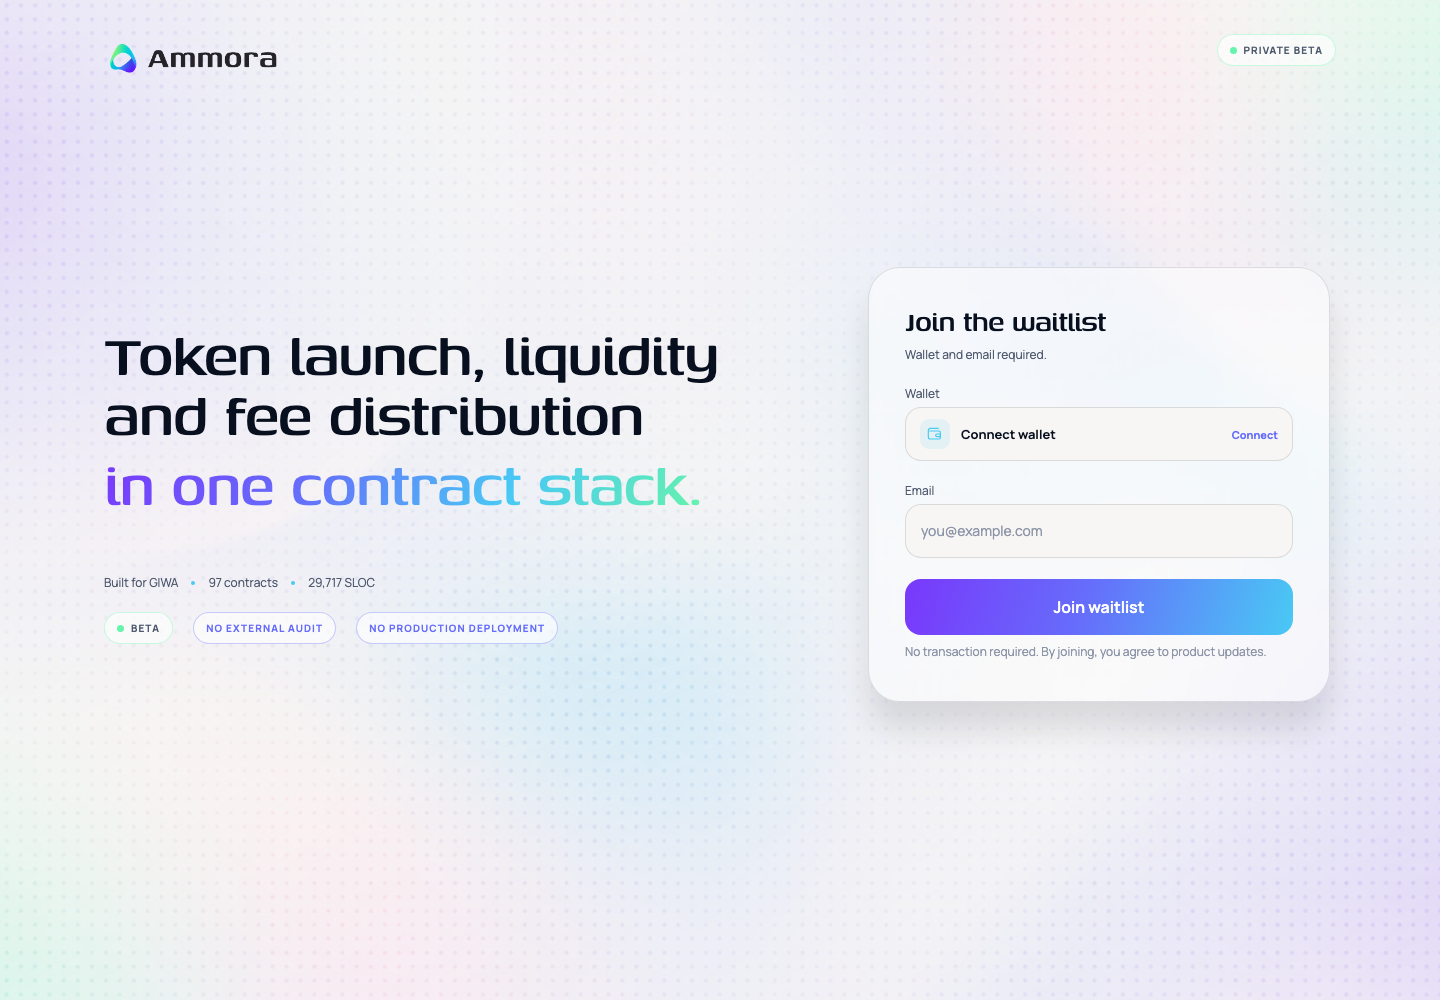
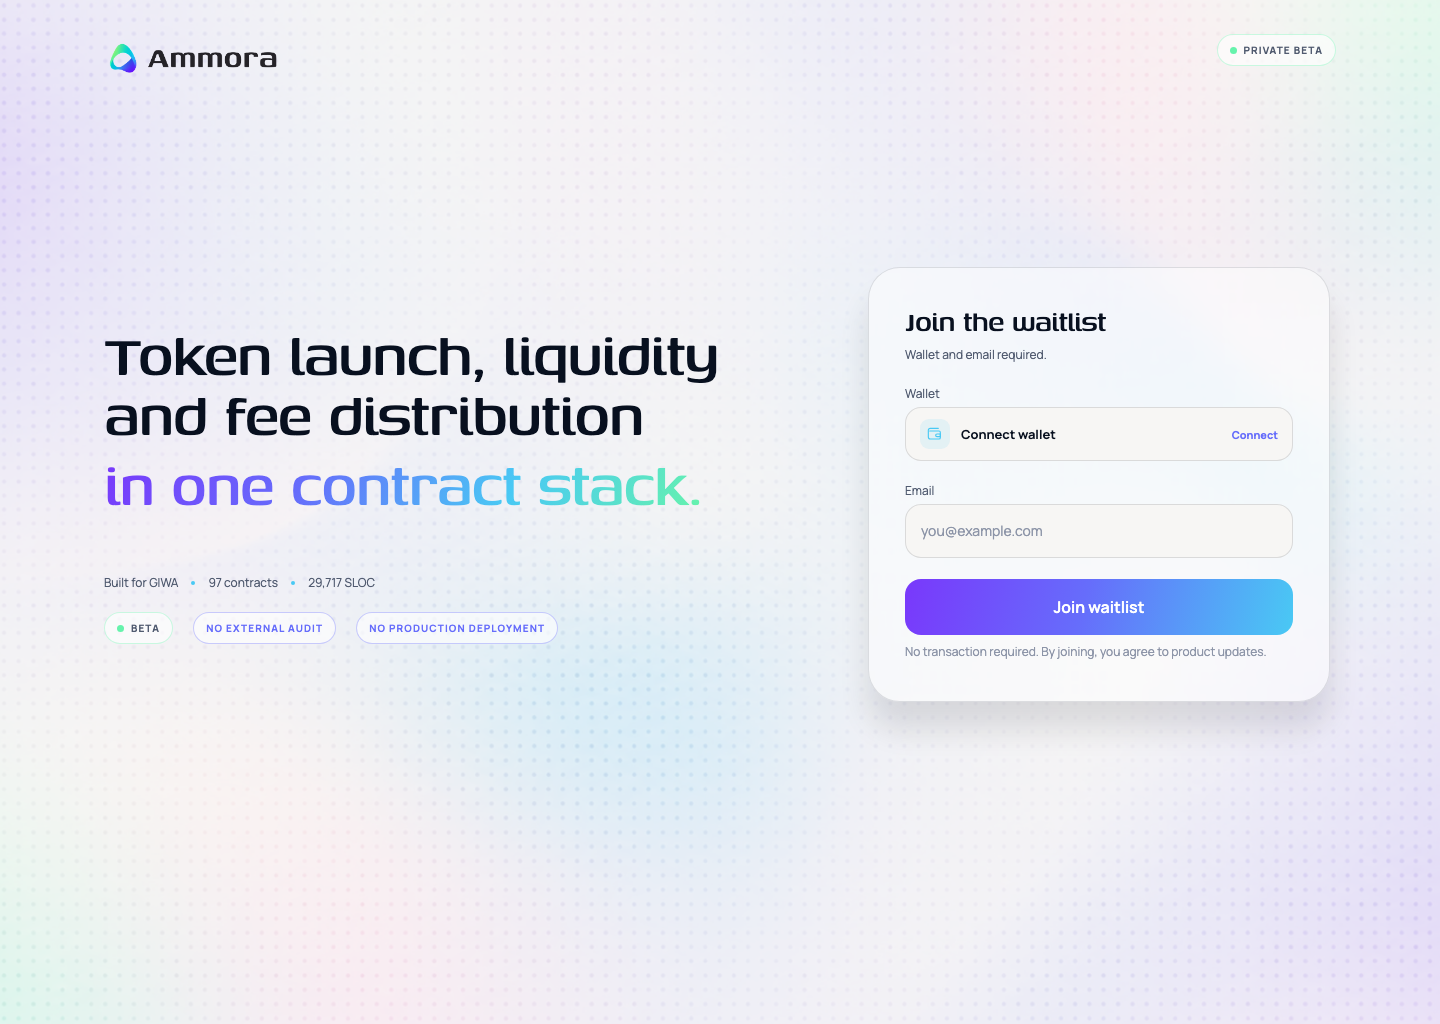
style: reduce mobile hero wrapping

diff --git a/styles.css b/styles.css
@@ -172,7 +172,8 @@ h1 {
   display: block;
 }
 
-.title-base {
+.title-line {
+  display: block;
   white-space: nowrap;
 }
 
@@ -442,22 +443,19 @@ h1 {
   }
 
   h1 {
-    font-size: clamp(3.25rem, 15vw, 3.75rem);
-    line-height: 0.84;
-  }
-
-  .desktop-break {
-    display: none;
+    font-size: clamp(2.125rem, 10.75vw, 2.625rem);
+    line-height: 0.95;
   }
 
   .title-base {
-    max-width: 360px;
-    white-space: normal;
+    max-width: none;
   }
 
   .title-accent {
-    width: 340px;
-    margin-top: 16px;
+    width: max-content;
+    max-width: none;
+    margin-top: 12px;
+    white-space: nowrap;
   }
 
   .facts {

diff --git a/index.html b/index.html
@@ -26,8 +26,8 @@
         <section class="hero-copy" aria-labelledby="page-title">
           <h1 id="page-title">
             <span class="title-base">
-              Token launch, liquidity<span class="desktop-break"><br /></span>
-              and fee distribution
+              <span class="title-line">Token launch, liquidity</span>
+              <span class="title-line">and fee distribution</span>
             </span>
             <span class="title-accent">in one contract stack.</span>
           </h1>

diff --git a/docs/DESIGN-SYSTEM.md b/docs/DESIGN-SYSTEM.md
@@ -40,6 +40,7 @@
 - Mobile: copy와 form을 한 열로 쌓는다.
 - Mobile status chips: 한 줄을 유지하고 viewport를 넘으면 horizontal scroll로 이어진다.
 - Mobile service facts: cyan dot 구분자를 포함한 한 줄을 유지한다.
+- Mobile hero title: 의미 단위 2줄, gradient accent 1줄을 유지하며 34–42px 범위에서 반응형 축소한다.
 
 ## Interactive background
 
